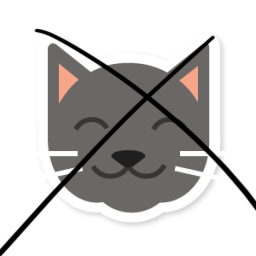
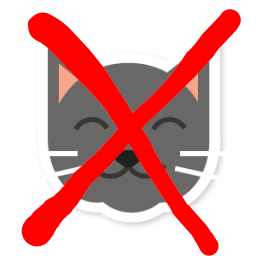
fixes according to Karolina message:
transparent button:
-Po właczeniu aparatu przycisk co robi zdjecie ma być większy lub jak się da to fajnie by było by klikając gdziekolwiek robiło się zdjęcie
przycisk ze statystykami:
-głowy kotów większe, dodatkowo tam gdzie NIEkot przekreślenie ma być bardziej wyraźne
-cyry też większe
-zamienić strony w pokazywaniu statystyk KOT I NIEkot tak by odpowiadały stronom w pierwszym przeźroczystym przycisku(lewa strona NIEkot, prawa KOT)
MANUAL:
fajnie nadmienić że jak się kliknie w ten pierwszy przycisk to otworzy sie aparat i trzeba kliknąć czarny przycisk//lub gdziekolwiek na ekranie w celu zrobienia zdjecia, a po werdykcie by powrócić do menu głównego to trzeba kliknąć gdziekolwiek
ten transparent button jak na moje oko jest biały :)

ok, to jest wszystko co chciałam
Karolina

TO-DO:

MANUAL

Changed region(s): [[0.0, 0.0312, 1.0, 1.0]]

diff --git a/style.css b/style.css
@@ -8,7 +8,7 @@ head, body, #menu {
 
 #button, .stats, #manual {
     color: white;
-    font-size: 50px;
+    font-size: 100px;
     height: 25vh;
     width: 100vw;
 }
@@ -25,7 +25,7 @@ head, body, #menu {
 #yesButton, #noButton {
     background-color: white;
     display: inline;
-    font-size: 50px;
+    font-size: 80px;
     height: 25vh;
     width: 49vw;
     border: none;
@@ -50,9 +50,10 @@ head, body, #menu {
 
 #camera--trigger, #goBack {
     width: 600px;
+    height: 600px;
     background-color: black;
     color: white;
-    font-size: 60px;
+    font-size: 100px;
     border-radius: 90px;
     border: 3px white;
     padding: 15px 20px;

diff --git a/app.js b/app.js
@@ -101,7 +101,7 @@ function refreshStats() {
     var container = document.querySelector(".stats");
 
 
-    container.innerHTML = "<img src='Cat-icon.png' height=\"64\" width=\"64\">" + yesCount + "   " + "<img src='notCat-icon.png' height=\"64\" width=\"64\">" + noCount ;
+    container.innerHTML = + noCount + "<img src='notCat-icon.png' height=\"128\" width=\"128\">" +" "+  "<img src='Cat-icon.png' height=\"128\" width=\"128\">" + yesCount;
 
     //container.appendChild(notcatimage);
 }
